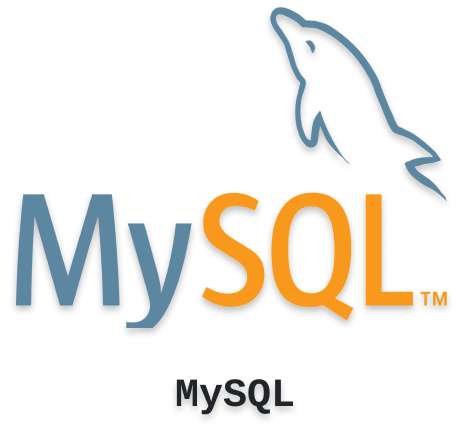
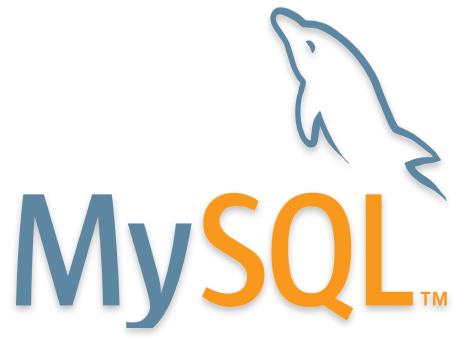
updates-from-the-new-website-cronos

Changed region(s): [[0.0298, 0.0, 0.9532, 1.0]]

diff --git a/index.html b/index.html
@@ -292,13 +292,14 @@
 
                             <div class="collapse w-100" id="collapse01">
                                 <div class="card card-body text-bg-light mt-3" style="height: 320px;" class="icon-image">
-                                    <div class="h6">BEGINNER: </div>
+                                    <div class="h6">INTERMEDIATE: </div>
                                     <div class="p mt-2 my-1">- Components and Props;</div>
                                     <div class="p my-1">- State and Events;</div>
                                     <div class="p my-1">- Context API;</div>
                                     <div class="p my-1">- Lifecycle Hooks and React Hooks;</div>
                                     <div class="p my-1">- React Router;</div>
                                     <div class="p my-1">- Redux</div>
+                                    <div class="p my-1">- React with TypeScript</div>
                                 </div>
                             </div>
                         </div>
@@ -399,7 +400,7 @@
                             </div>
                         </div>
                         <div class="swiper-slide card bg-light p-xl-4 p-2 rounded-4 align-items-center">
-                            <img src="images/skills-icon/mysql-icon.png" alt="Icon Linkedin" style="height: 250px;" class="icon-image">
+                            <img src="images/skills-icon/mysql.png" alt="Icon Linkedin" style="height: 250px;" class="icon-image">
                             <div class="collapse w-100" id="collapse01">
                                 <div class="card card-body text-bg-light mt-3" style="height: 320px;" class="icon-image">
                                     <div class="h6">INTERMEDIATE: </div>
@@ -423,12 +424,36 @@
                             </div>
                         </div>
                         <div class="swiper-slide card bg-light p-xl-4 p-2 rounded-4 align-items-center">
-                            <img src="images/skills-icon/firebase-icon-full.png" alt="Icon Linkedin" style="height: 250px;" class="icon-image">
+                            <img src="images/skills-icon/django-icon.png" alt="Icon Linkedin" style="height: 250px;" class="icon-image">
                             <div class="collapse w-100" id="collapse01">
                                 <div class="card card-body text-bg-light mt-3" style="height: 320px;" class="icon-image">
                                     <div class="h6">BEGINNER: </div>
-                                    <div class="p mt-2 my-1">- Database Management;</div>
-                                    <div class="p mt-2 my-1">- Login and Passawords management;</div>
+                                    <div class="p mt-2 my-1">- Django URLs, Views and Templates;</div>
+                                    <div class="p mt-2 my-1">- Templates creation;</div>
+                                    <div class="p mt-2 my-1">- ORMs and Models;</div>
+                                    <div class="p mt-2 my-1">- Django Testing;</div>
+                                </div>
+                            </div>
+                        </div>
+                        <div class="swiper-slide card bg-light p-xl-4 p-2 rounded-4 align-items-center">
+                            <img src="images/skills-icon/insomnia-icon.png" alt="Icon Linkedin" style="height: 250px;" class="icon-image">
+                            <div class="collapse w-100" id="collapse01">
+                                <div class="card card-body text-bg-light mt-3" style="height: 320px;" class="icon-image">
+                                    <div class="h6">INTERMEDIATE: </div>
+                                    <div class="p mt-2 my-1">- Environment variables;</div>
+                                    <div class="p mt-2 my-1">- Response validation;</div>
+                                    <div class="p mt-2 my-1">- Testing the backend APIs;</div>
+                                </div>
+                            </div>
+                        </div>
+                        <div class="swiper-slide card bg-light p-xl-4 p-2 rounded-4 align-items-center">
+                            <img src="images/skills-icon/chatgpt-icon.png" alt="Icon Linkedin" style="height: 250px;" class="icon-image">
+                            <div class="collapse w-100" id="collapse01">
+                                <div class="card card-body text-bg-light mt-3" style="height: 320px;" class="icon-image">
+                                    <div class="h6">BEGINNER: </div>
+                                    <div class="p mt-2 my-1">- Code completions based on the context.</div>
+                                    <div class="p mt-2 my-1">- Debugging code</div>
+                                    <div class="p mt-2 my-1">- Writing automatized tests;</div>
                                 </div>
                             </div>
                         </div>
@@ -490,7 +515,7 @@
                 <button type="button" class="btn btn-outline-light m-2 slide-12" style="min-width: 130px"">DESIGN</button>
                 <button type="button" class="btn btn-outline-light m-2 slide-16" style="min-width: 130px">BACK END I</button>
                 <button type="button" class="btn btn-outline-light m-2 slide-20" style="min-width: 130px">BACK END II</button>
-                <button type="button" class="btn btn-outline-light m-2 slide-24" style="min-width: 130px">OTHERS HS</button>
+                <button type="button" class="btn btn-outline-light m-2 slide-24" style="min-width: 130px">OTHERS</button>
             </div>
         </div>
     </section>
@@ -547,6 +572,14 @@
                                 style="background-color: #212529"
                                 >
                             </button>
+                            <button type="button" 
+                                data-bs-target="#carouselExampleIndicators" 
+                                data-bs-slide-to="5" 
+                                aria-label="Slide 6" 
+                                onclick="changeIndexto5();changeProject()" 
+                                style="background-color: #212529"
+                                >
+                            </button>
                         </div>
                             <div class="carousel-inner shadow">
                                 <div class="carousel-item active">
@@ -557,6 +590,9 @@
                                 </div>
                                 <div class="carousel-item shadow">
                                     <img src="images/web-prints/metaseed.png" class="d-block w-100 rounded-1 p-xxl-5 p-2" alt="...">
+                                </div>
+                                <div class="carousel-item shadow">
+                                    <img src="images/web-prints/cronos.png" class="d-block w-100 rounded-1 p-xxl-5 p-2" alt="...">
                                 </div>
                                 <div class="carousel-item shadow">
                                     <img src="images/web-prints/pedro-denari-engenharial.png" class="d-block w-100 rounded-1 p-xxl-5 p-2" alt="...">
@@ -707,48 +743,7 @@
                 </div>
             </div>
         </div>
-    </section> 
-<!----------------------------------------section2------------------------------------------------->
-    
-    <section class="text-bg-primary p-3">
-        <div class="p-3 m-0">
-            <div class="h1 text-center mt-3 mb-3">POSTS</div>
-        </div>
-        <div class="d-flex justify-content-center p-3 mb-5">
-            <div class="card m-1 mx-3 p-3" style="width: 25rem;">
-                <img src="images/web-prints/metaseed.png" class="card-img-top" alt="...">
-                <div class="card-body text-dark">
-                    <h5 class="card-title">Differences between React and Vue</h5>
-                    <p class="card-text">Some quick example text to build on the card title and make up the bulk of the card's content.</p>
-                    <a href="posts.html" class="btn btn-primary">Go read it!</a>
-                </div>
-            </div>
-            <div class="card m-1 mx-3 p-3" style="width: 25rem;">
-                <img src="images/web-prints/metaseed.png" class="card-img-top" alt="...">
-                <div class="card-body text-dark">
-                    <div class="h-75">
-                        <h5 class="card-title">What is monolithic?</h5>
-                        <p class="card-text">(In progress.)</p>
-                    </div>
-                    <div class="d-flex h-25">
-                        <a href="#" class="btn btn-primary">Go read it!</a>
-                    </div>
-                </div>
-            </div>
-            <div class="card m-1 mx-3 p-3" style="width: 25rem;">
-                <img src="images/web-prints/metaseed.png" class="card-img-top" alt="...">
-                <div class="card-body text-dark">
-                    <div class="h-75">
-                        <h5 class="card-title">SPA and MPA</h5>
-                        <p class="card-text">(In progress.)</p>
-                    </div>
-                    <div class="d-flex h-25">
-                        <a href="#" class="btn btn-primary">Go read it!</a>
-                    </div>
-                </div>
-            </div>
-        </div>
-    </section>
+    </section>   
     
 <!----------------------------------------footer------------------------------------------------->        
     <footer class="text-bg-dark p-2">

diff --git a/js/javascript.js b/js/javascript.js
@@ -1,12 +1,13 @@
 // all variables object
 projectObject = {
     
-    name: ['Denari Blog', 'RouteHelper', 'Metaseed','Building Project Portfolio', 'Metaseed Landing Page'],
+    name: ['Denari Blog', 'RouteHelper', 'Metaseed', 'Cronos', 'Building Project Portfolio', 'Metaseed Landing Page'],
     
     firstDescription: [
         "Project that compiles knowledge and technology projects developed by João Denari. It is the gateway for clients to get knowledge about the developer work and it will follow his entire career.",
         "Full stack routing application that calculates the shortest path between two or more addresses through an API Open Source.",
         "The second project developed for the Metaseed Company which  provides to his customers processes automation through programming scripts.",
+        "This website is designed to be user-friendly and efficient, allowing you to focus on your work without any distractions. ",
         "Portfolio created to the civil engineer Pedro Denari to show his projects developed during his career.",
         "The developer's first project in his career. It is a landing page designed to attract more customers to the metaseed company and describe the services provided."
     ],
@@ -15,6 +16,7 @@ projectObject = {
         "This project was developed focusing on HTML and Bootstrap (front-end development framework) for training purposes.",
         "Users can create a personal account to enjoy more application features and they have access to your search history.",
         "The Full Stack Application provides to the user an access account where they can have access to the scripts developed.",
+        "This is our first project using the powerful combination of React, TypeScript, and Django and it offers a database for people who have subscribed, allowing you to keep track of your time and progress over time. ",
         "The site provides an exhibition of project images, a form to become his client and the engineer's contact details.",
         "The site has a form that, through a CDN (Content Delivery Network), sent the answers to the owner's email.",
     ],
@@ -23,6 +25,7 @@ projectObject = {
         "All usual tags were used in the development of this project, as: 'div', 'section', 'header', 'footer', 'button', 'img' and 'a' for external links.",
         "Most tools that Vuejs offers: Vuex, Vue Router, Props, Events and Reusable Components. Also, a API Bing Maps is consumed using Actions and Mutations.",
         "Tha frontend application is hosted on Hostinger and it has middlewares, routes creation and layout earning development productivity. ",
+        "React tools such as router, hooks, context API, and TypeScript, enhance the development experience by enabling easy navigation, state management, and type checking in React applications.",
         "Semantic HTML, HTML form, Attributes, Class and ID's.",
         "All usual tags were used in the development of this project, as: 'div', 'section', 'header', 'footer', 'button', 'img' and 'a' for external links.",
     ],
@@ -31,6 +34,7 @@ projectObject = {
         "Bootstrap was widely used in this project to gain productivity. Swiper Slides, Accordion Component and Grid, Flexbox and Responsive Medias were used to build the layout.",
         "VPS Hosted on Hostinger, the Node.js was used to create the project backend using the following technologies: Express, Mongoose and JSON Web Token.",
         "VPS Hosted on Hostinger, the backend was build using: Node.js, Express, JSON Web Token, Docker Containers and Scripts using Python Language.",
+        "Django was used as a backend site! Models and Views were created to give suport to frontend.",
         "Bootstrap was widely used in this project to gain productivity.",
         "Flexbox, Grid and CSS External was the main methods used.",
     ],
@@ -39,6 +43,7 @@ projectObject = {
         "Aiming to change the website content, the combination of Objects, Functions and DOM JavaScript methods were used to listening user events.",
         "A CRUD was developed to record all actions done by the user registered in the application.",
         "A CRUD was developed to create a database NoSQL and to create a User Login and Registration.",
+        "For those who are subscribed, it was created a database to track your actions and the historical.",
         "A open source CDN for register form awser by the customers.;",
         "A open source CDN for register form awser by the customers.",
     ],
@@ -46,6 +51,7 @@ projectObject = {
     linkProject: [
         'https://jdenari.github.io/personal-blog/',
         'https://routehelper.com.br/',
+        'https://metaseed.com.br/',
         'https://metaseed.com.br/',
         'https://jdenari.github.io/pedro-denari-engenharia-civil/',
         'https://jdenari.github.io/metaseed-landing-page/',
@@ -55,21 +61,22 @@ projectObject = {
         'https://github.com/jdenari/personal-blog',
         'https://github.com/jdenari/routing-software',
         'https://github.com/jdenari/metaseed',
+        'https://github.com/jdenari/cronos',
         'https://github.com/jdenari/pedro-denari-engenharia-civil',
         'https://github.com/jdenari/metaseed-landing-page',
     ],
 
-    firstIcon: ['HTML', 'VUEJS', 'NUXT', 'HTML', 'HTML'],
+    firstIcon: ['HTML', 'VUEJS', 'NUXT', 'REACT', 'HTML', 'HTML'],
 
-    secondIcon: ['BOOTSTRAP', 'NODEJS', 'NODEJS', 'BOOTSTRAP', 'CSS'],
+    secondIcon: ['BOOTSTRAP', 'NODEJS', 'NODEJS', 'DJANGO', 'BOOTSTRAP', 'CSS'],
 
-    thirdIcon: ['JAVASCRIPT', 'MYSQL', 'MONGODB', 'JAVASCRIPT', 'JAVASCRIPT'],
+    thirdIcon: ['JAVASCRIPT', 'MYSQL', 'MONGODB', 'MYSQL', 'JAVASCRIPT', 'JAVASCRIPT'],
 
-    firstBar: ['width: 50%', 'width: 75%', 'width: 75%', 'width: 75%', 'width: 50%'],
+    firstBar: ['width: 50%', 'width: 75%', 'width: 75%', 'width: 75%', 'width: 75%', 'width: 50%'],
     
-    secondBar: ['width: 75%', 'width: 50%', 'width: 75%', 'width: 100%', 'width: 75%'],
+    secondBar: ['width: 75%', 'width: 50%', 'width: 75%', 'width: 50%', 'width: 100%', 'width: 75%'],
 
-    thirdBar: ['width: 25%', 'width: 25%', 'width: 50%', 'width: 25%', 'width: 25%'],
+    thirdBar: ['width: 25%', 'width: 25%', 'width: 50%', 'width: 50%', 'width: 25%', 'width: 25%'],
 }
 
 // index to guide the changes
@@ -80,11 +87,11 @@ const addIndex = () => currentImgIndex++;
 const subIndex = () => currentImgIndex--;
 
 function checkIndex(){
-    if (currentImgIndex === 5){
+    if (currentImgIndex === 6){
         currentImgIndex=0;
     } 
     if (currentImgIndex === -1){
-        currentImgIndex=4;
+        currentImgIndex=5;
     }
 }
 
@@ -94,6 +101,7 @@ const changeIndexto1 = () => currentImgIndex=1;
 const changeIndexto2 = () => currentImgIndex=2;
 const changeIndexto3 = () => currentImgIndex=3;
 const changeIndexto4 = () => currentImgIndex=4;
+const changeIndexto5 = () => currentImgIndex=5;
 
 // next or prev project function
 function changeProject(){
